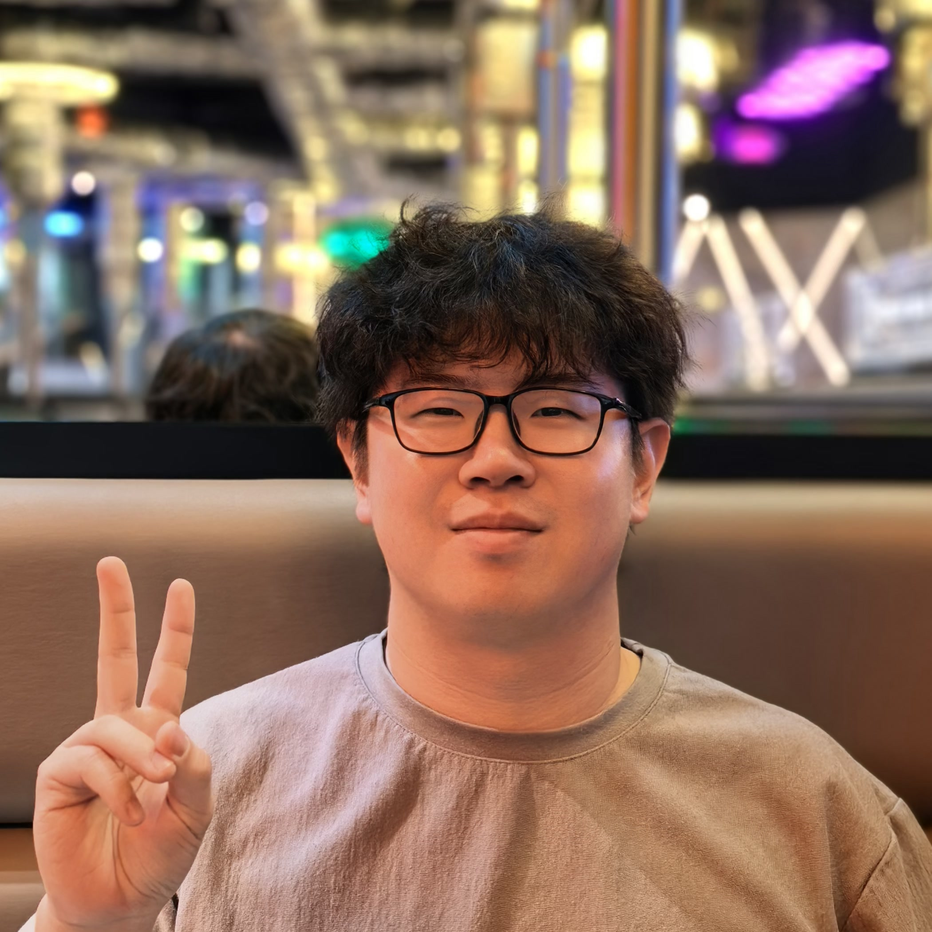
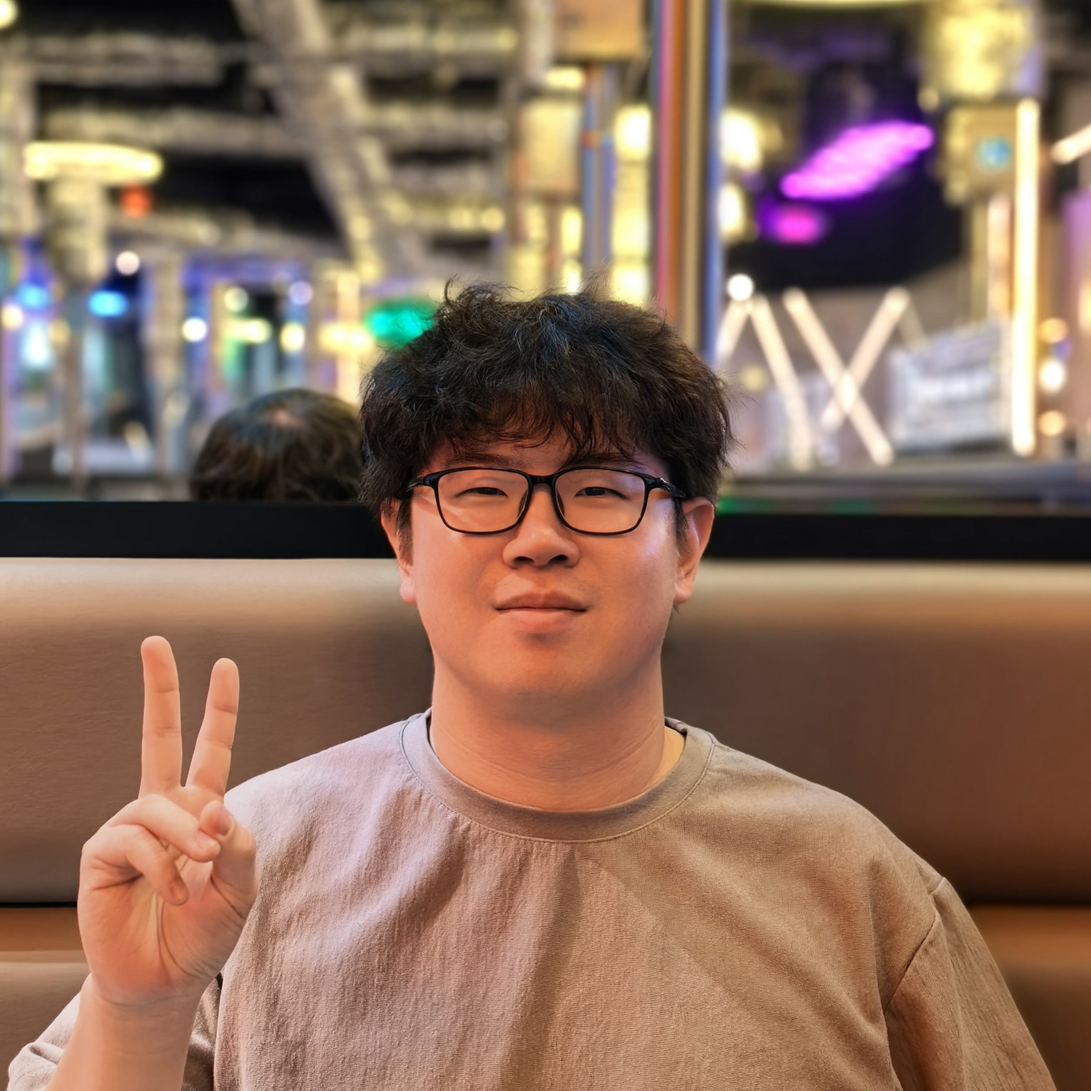
Refine profile photo crop and round its corners

diff --git a/index.html b/index.html
@@ -107,7 +107,7 @@
                 </p>
               </td>
               <td style="padding:2.5%;width:40%;max-width:40%">
-                <a href="images/photo.jpg"><img style="width:100%;max-width:100%;object-fit: cover; border-radius: 50%;" alt="profile photo" src="images/photo.jpg" class="hoverZoomLink"></a>
+                <a href="images/photo.jpg"><img style="width:100%;max-width:100%;object-fit: cover; border-radius: 15px;" alt="profile photo" src="images/photo.jpg" class="hoverZoomLink"></a>
               </td>
             </tr>
           </tbody></table>
